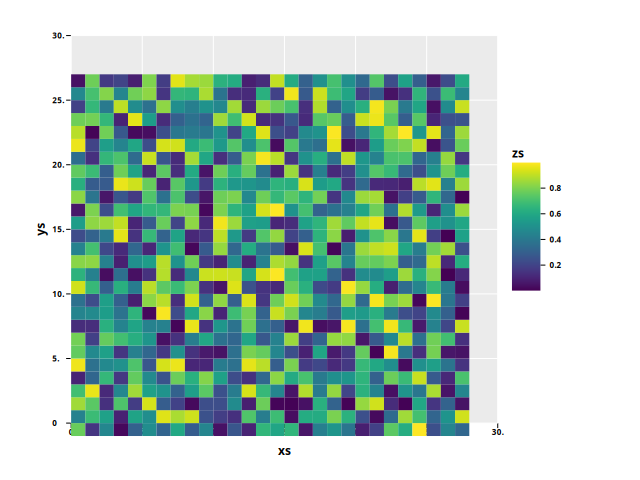
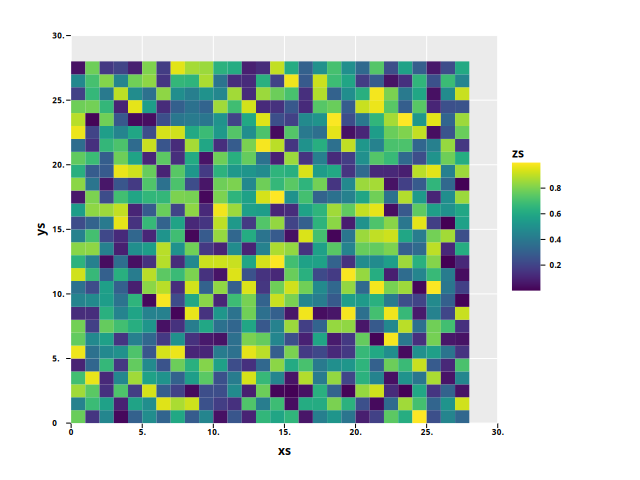
fixes/test/docs for xlab/ylab

diff --git a/src/python_ggplot/graphics/initialize.py b/src/python_ggplot/graphics/initialize.py
@@ -698,6 +698,7 @@ def xlabel(
     font: Optional[Font] = None,
     name: Optional[str] = None,
     is_secondary: Optional[bool] = None,
+    is_custom_margin: bool = False,
     rotate: Optional[float] = None,
 ) -> GraphicsObject:
 
@@ -708,7 +709,7 @@ def xlabel(
         margin=margin,
         font=font,
         name=name,
-        is_custom_margin=False,
+        is_custom_margin=is_custom_margin,
         is_secondary=is_secondary,
         rotate=rotate,
     )
@@ -721,9 +722,9 @@ def ylabel(
     font: Optional[Font] = None,
     name: Optional[str] = None,
     is_secondary: Optional[bool] = None,
+    is_custom_margin: bool = False,
     rotate: Optional[float] = None,
 ) -> GraphicsObject:
-
     return init_axis_label(
         view=view,
         label=label,
@@ -731,7 +732,7 @@ def ylabel(
         margin=margin,
         font=font,
         name=name,
-        is_custom_margin=False,
+        is_custom_margin=is_custom_margin,
         is_secondary=is_secondary,
         rotate=rotate,
     )

diff --git a/tests/test_plots.py b/tests/test_plots.py
@@ -11,6 +11,8 @@ from python_ggplot.public_interface.common import (
     scale_x_continuous,
     scale_y_continuous,
     scale_y_discrete,
+    xlab,
+    ylab,
 )
 from python_ggplot.public_interface.geom import (
     geom_bar,
@@ -241,9 +243,18 @@ def test_geom_linerange():
     ggdraw_plot(res, plots_path / "geom_linerange.png")
 
 
-def test_geom_freqpoly():
+def test_geom_freqpoly_diamonds():
     diamonds = pd.read_csv(data_path / "diamonds.csv")
-    plot = ggplot(diamonds, aes("price", color="cut")) + geom_freqpoly()
+    plot = ggplot(
+        diamonds, aes("price", color="cut")
+    ) + geom_freqpoly(
+    ) + ylab(
+        label="custom label",
+        rotate=-45
+    ) + xlab(
+        rotate=45,
+        tick_margin=2.5
+    )
     res = ggcreate(plot)
     ggdraw_plot(res, plots_path / "geom_freqpoly.png")
 

diff --git a/src/python_ggplot/public_interface/utils.py b/src/python_ggplot/public_interface/utils.py
@@ -782,7 +782,7 @@ def annotate(
 def apply_theme(plt_theme: Theme, theme: Theme) -> None:
     for field in theme.__dataclass_fields__:
         value = getattr(theme, field)
-        if value is not None:
+        if value:
             setattr(plt_theme, field, value)
 
 
@@ -1024,7 +1024,7 @@ def handle_labels(view: ViewPort, theme: Theme):
             return lab_proc(
                 view,
                 lab_txt,
-                margin=theme_field,
+                margin=margin_val,
                 is_custom_margin=True,
                 is_secondary=is_second,
                 font=fnt,

diff --git a/src/python_ggplot/gg/types.py b/src/python_ggplot/gg/types.py
@@ -348,6 +348,14 @@ class Theme:
     legend_title_font: Optional[Font] = None
     legend_font: Optional[Font] = None
 
+    def rotate_for_axis(self, axis_kind: AxisKind):
+        if axis_kind == AxisKind.X:
+            return self.x_ticks_rotate
+        elif axis_kind == AxisKind.Y:
+            return self.y_ticks_rotate
+        else:
+            raise GGException("Axis has to be X or Y")
+
 
 @dataclass
 class Facet:

diff --git a/src/python_ggplot/gg/ticks.py b/src/python_ggplot/gg/ticks.py
@@ -812,7 +812,9 @@ def handle_ticks(
             view,
             ticks,
             TickLabelsInput(  # type: ignore use generics?
-                font=theme.tick_label_font, margin=margin_opt
+                font=theme.tick_label_font,
+                margin=margin_opt,
+                rotate=theme.rotate_for_axis(ax_kind)
             ),
         )
 

diff --git a/README.md b/README.md
@@ -64,8 +64,18 @@ ggdraw_plot(res, plots_path / "geom_tile_mpg.png")
 <img src="plots/geom_freqpoly_cty_class.png?v=1" alt="gg_point" width="400px">
 
 ```python
+def test_geom_freqpoly_diamonds():
 diamonds = pd.read_csv(data_path / "diamonds.csv")
-plot = ggplot(diamonds, aes("price", color="cut")) + geom_freqpoly()
+plot = ggplot(
+    diamonds, aes("price", color="cut")
+) + geom_freqpoly(
+) + ylab(
+    label="custom label",
+    rotate=-45
+) + xlab(
+    rotate=45,
+    tick_margin=2.5
+)
 res = ggcreate(plot)
 ggdraw_plot(res, plots_path / "geom_freqpoly.png")
 ```
